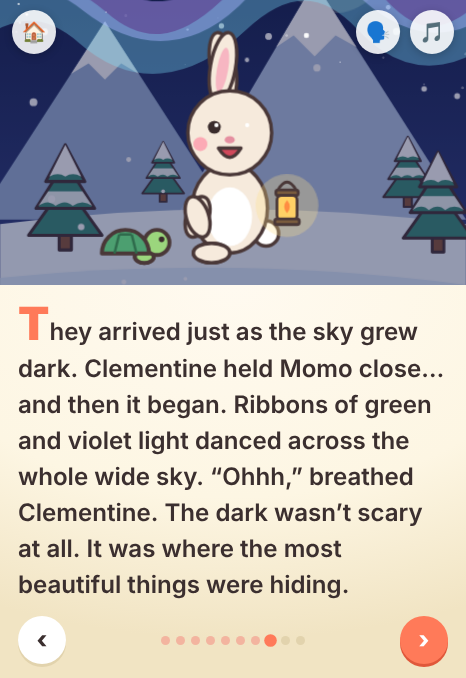
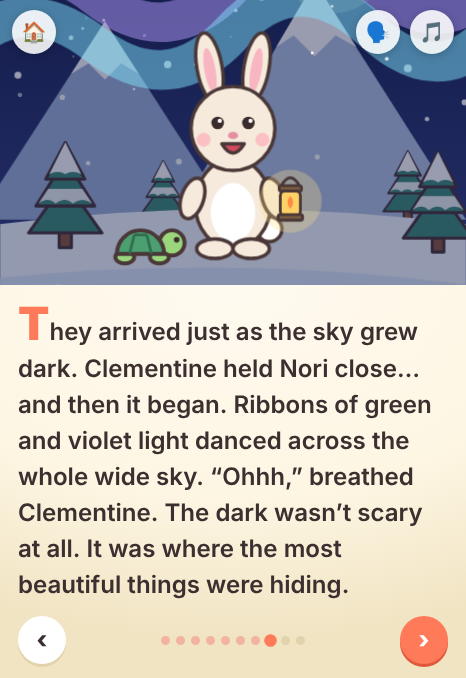
Offer only he and she for the hero
Claude-Session: https://claude.ai/code/session_01BUNsm9hazULUur1qnpio9K

diff --git a/js/app.js b/js/app.js
@@ -43,7 +43,7 @@ $('#shelf').addEventListener('click', (e) => {
 
 $('#startBtn').addEventListener('click', () => {
   audio.unlock(); audio.sfx('pop');
-  answers = { pro: 'they' }; stepIdx = 0;
+  answers = { pro: 'he' }; stepIdx = 0;
   show('wizard'); renderStep();
 });
 $('#surpriseBtn').addEventListener('click', () => { audio.unlock(); create(randomAnswers()); });
@@ -56,7 +56,7 @@ const STEPS = [
   { key: 'name', q: 'What is your hero’s name?' },
   { key: 'setting', q: 'Where does the story happen?', pic: (k) => buildScene({ setting: k, time: 'day', seed: 11 }) },
   { key: 'friend', q: 'Who comes along?', pic: (k) => icon(friendArt(k)) },
-  { key: 'item', q: 'What magic thing do they carry?', pic: (k) => icon(itemArt(k)) },
+  { key: 'item', q: 'What magic thing does your hero carry?', pic: (k) => icon(itemArt(k)) },
   { key: 'quest', q: 'What is the story about?', pic: (k) => emoji({ treasure: '💎', friend: '🤝', rescue: '🏡', brave: '🌌' }[k]) },
   { key: 'mood', q: 'What kind of story today?', pic: (k) => emoji({ bedtime: '🌙', adventure: '🎉' }[k]) },
 ];
@@ -76,12 +76,12 @@ function renderStep() {
   let body;
   if (step.key === 'name') {
     const chips = NAMES.slice(0, 6).map((n) => `<button class="chip" data-name="${n}">${n}</button>`).join('');
-    const pros = [['he', 'he'], ['she', 'she'], ['they', 'they']]
+    const pros = [['he', 'he'], ['she', 'she']]
       .map(([k, l]) => `<button class="chip pro ${answers.pro === k ? 'on' : ''}" data-pro="${k}">${l}</button>`).join('');
     body = `<div class="name-step">
       <input id="nameInput" type="text" maxlength="14" autocomplete="off" autocapitalize="words" spellcheck="false" placeholder="Type a name" value="${esc(answers.name || '')}">
       <div class="chips">${chips}</div>
-      <div class="chips"><span class="label">Call them</span>${pros}</div>
+      <div class="chips"><span class="label">Your hero is a</span>${pros}</div>
       <button class="btn primary" id="nameNext">Next ›</button>
     </div>`;
   } else {
@@ -245,7 +245,7 @@ $('#reader').addEventListener('pointerup', (e) => {
 // Tap the words to hear them again; tap the buttons on the last page.
 textEl.addEventListener('click', (e) => {
   if (e.target.closest('#againBtn')) { audio.sfx('pop'); pageIdx = 0; renderPage(); narrate(); return; }
-  if (e.target.closest('#newBtn')) { audio.sfx('pop'); answers = { pro: 'they' }; stepIdx = 0; show('wizard'); renderStep(); return; }
+  if (e.target.closest('#newBtn')) { audio.sfx('pop'); answers = { pro: 'he' }; stepIdx = 0; show('wizard'); renderStep(); return; }
   if (!voiceOn) return;
   narrate();
 });

diff --git a/js/story.js b/js/story.js
@@ -19,7 +19,6 @@ const ITEM = { lantern: 'glowing lantern', brush: 'magic paintbrush', shell: 'si
 const PRONOUNS = {
   he: { he: 'he', He: 'He', him: 'him', his: 'his', himself: 'himself', was: 'was' },
   she: { he: 'she', He: 'She', him: 'her', his: 'her', himself: 'herself', was: 'was' },
-  they: { he: 'they', He: 'They', him: 'them', his: 'their', himself: 'themself', was: 'were' },
 };
 
 const WORLD = {
@@ -111,7 +110,7 @@ export function randomAnswers(seed = Date.now()) {
   const r = rng(seed);
   const pick = (o) => { const k = Array.isArray(o) ? o : Object.keys(o); return k[Math.floor(r() * k.length)]; };
   return {
-    hero: pick(OPTIONS.hero), name: pick(NAMES), pro: pick(['he', 'she', 'they']), setting: pick(OPTIONS.setting),
+    hero: pick(OPTIONS.hero), name: pick(NAMES), pro: pick(['he', 'she']), setting: pick(OPTIONS.setting),
     friend: pick(OPTIONS.friend), item: pick(OPTIONS.item), quest: pick(OPTIONS.quest), mood: pick(OPTIONS.mood),
   };
 }
@@ -125,7 +124,7 @@ export function makeStory(a, seed) {
   const paths = [...w.paths].sort(() => r() - 0.5);
 
   const v = {
-    ...PRONOUNS[a.pro] || PRONOUNS.they, N, F, kind: KIND[a.hero], fk: FRIEND[a.friend], item: ITEM[a.item],
+    ...PRONOUNS[a.pro] || PRONOUNS.he, N, F, kind: KIND[a.hero], fk: FRIEND[a.friend], item: ITEM[a.item],
     place: w.place, home: w.home, sound: w.sound, obstacle: w.obstacle, Obstacle: cap(w.obstacle), obsThe: w.obsThe, ObsThe: cap(w.obsThe),
     treasure: w.treasure, critter: w.critter, Critter: cap(w.critter), lights: w.lights, lightsDesc: w.lightsDesc, night: w.night,
     adj: pick(['curious', 'cheerful', 'gentle', 'clever', 'giggly']), path1: paths[0], path2: paths[1],
